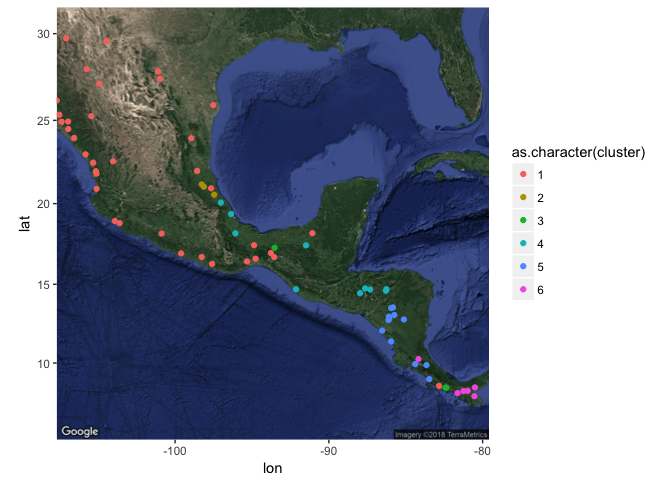
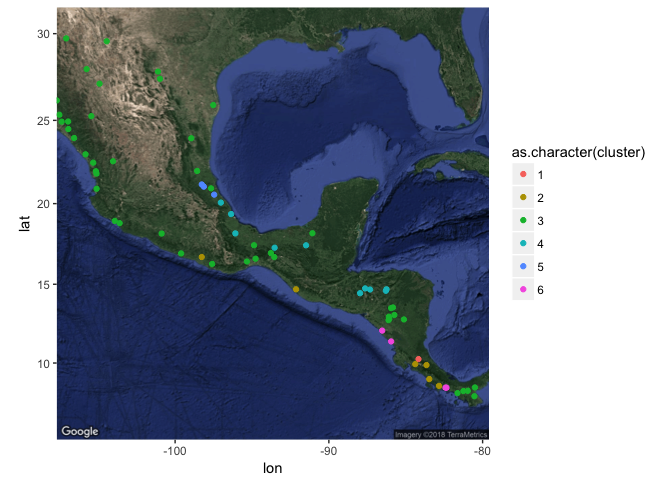
readme

diff --git a/clusters.md b/clusters.md
@@ -76,7 +76,7 @@ round(tapply(data$Mediana_de_cluster, data$rank_var,median),4)
 
 -   OPCIÓN 2: k-means usando los componentes de PCA.
 
-Primero, se deben calcular los PCA utilizando las anomalías en lugar de las observaciones. Como se tiene la climatología mensual para cada locación, el cálculo consiste en restar la climatología mensual a cada observación, según el mes correspondiente. Luego, se procede a hacer el PCA y por último agrupar las estaciones utilizando k-means.
+Primero, se deben calcular los PCA utilizando las anomalías en lugar de las observaciones. Como se tiene la climatología mensual para cada locación, el cálculo consiste en restar la climatología mensual a cada observación, según el mes correspondiente. Luego, se procede a hacer el PCA y por último agrupar las estaciones utilizando k-means de los primeros 10 componentes.
 
 ``` r
 clima2 <- as.matrix(clima[,-1]) %x% rep(1, 11)
@@ -93,20 +93,20 @@ fit <- kmeans(mydata, 6)
 aggregate(mydata,by=list(fit$cluster),FUN=mean)
 ```
 
-    ##   Group.1      Comp.1      Comp.2       Comp.3      Comp.4      Comp.5
-    ## 1       1 -0.03236753  0.02003948 -0.052705757 -0.01155176 -0.03723761
-    ## 2       2 -0.09226363  0.10238656 -0.249245515 -0.01029817  0.31521900
-    ## 3       3 -0.31486547  0.03354574  0.149833574 -0.16014539  0.08677194
-    ## 4       4 -0.07378654  0.05579737 -0.063748735  0.04383224  0.09371667
-    ## 5       5 -0.08035949  0.02079995  0.001412865  0.03520990  0.02090186
-    ## 6       6 -0.21944872 -0.14916599  0.071209607 -0.03162633 -0.09476993
-    ##        Comp.6       Comp.7      Comp.8       Comp.9     Comp.10
-    ## 1 -0.01263461  0.005131228 -0.03860683  0.006903447  0.01340550
-    ## 2 -0.23821138 -0.012421407  0.05428449 -0.162107082 -0.02525471
-    ## 3  0.06522142  0.265201443  0.11074939  0.125737832 -0.16811471
-    ## 4  0.15461689 -0.036529076  0.09287214  0.059983120  0.14240901
-    ## 5  0.10697671 -0.108308240 -0.06202052 -0.080938962 -0.11137158
-    ## 6 -0.09913274 -0.138107310  0.07959327 -0.102756546  0.09585316
+    ##   Group.1      Comp.1      Comp.2      Comp.3      Comp.4      Comp.5
+    ## 1       1 -0.23102533 -0.89974452 -0.25458406 -0.03555553  0.04093526
+    ## 2       2 -0.17505225  0.02100372 -0.01848551  0.08860101  0.03406538
+    ## 3       3 -0.04493411  0.02000804 -0.03369640 -0.01198930 -0.04525669
+    ## 4       4 -0.07236389  0.03996056 -0.02568390 -0.05189148  0.11409761
+    ## 5       5 -0.09226363  0.10238656 -0.24924551 -0.01029817  0.31521900
+    ## 6       6 -0.21909198  0.04687819  0.10998503  0.06257886  0.04684744
+    ##         Comp.6       Comp.7       Comp.8      Comp.9      Comp.10
+    ## 1  0.027942613 -0.117214555  0.047311531  0.07357872  0.004026195
+    ## 2  0.046912464  0.010931621 -0.251844773  0.01360782  0.065233715
+    ## 3 -0.001876355 -0.027558776 -0.004999674 -0.03049197  0.004020674
+    ## 4  0.159820495  0.003223046  0.107345441  0.02723663  0.128023216
+    ## 5 -0.238211378 -0.012421407  0.054284488 -0.16210708 -0.025254710
+    ## 6  0.015694867 -0.033484327  0.084285252  0.17957066 -0.310820339
 
 ``` r
 loca <- data.frame(loca, cluster=fit$cluster)
@@ -121,13 +121,13 @@ Descripción de los clusters:
 data <- as_tibble(cbind(loca,medianas))
 names(data) <- c("cod","lat","lon","area","rank_var","cluster2","Mediana_de_cluster")
 ## Area promedio de cada cluster:
-round(tapply(data$area, data$cluster2,mean),4)
+round(tapply(data$area,data$cluster2,mean),4)
 ```
 
     ##            1            2            3            4            5 
-    ## 2.523472e+04 1.454000e+03 4.013338e+08 8.170400e+03 2.446700e+03 
+    ## 7.300000e+01 1.844143e+03 2.104611e+04 8.076500e+03 1.454000e+03 
     ##            6 
-    ## 8.013333e+02
+    ## 3.010004e+08
 
 ``` r
 ## Medianan del Caudal de cada cluster:                                         
@@ -135,7 +135,7 @@ round(tapply(data$Mediana_de_cluster, data$cluster2,median),4)
 ```
 
     ##      1      2      3      4      5      6 
-    ## 0.1344 0.9366 8.9766 1.2963 0.7304 4.2840
+    ## 9.4685 4.6981 0.1775 1.2963 0.9366 4.6555
 
 -   OPCIÓN 3: Cluster para las series de tiempo.
 
@@ -177,4 +177,4 @@ round(tapply(data$Mediana_de_cluster, data$cluster2,median),4)
 ```
 
     ##      1      2      3      4      5      6 
-    ## 0.1344 0.9366 8.9766 1.2963 0.7304 4.2840
+    ## 9.4685 4.6981 0.1775 1.2963 0.9366 4.6555

diff --git a/Readme.md b/Readme.md
@@ -1,2 +1,4 @@
 # Hidalgo_CIGEFI
 Proyecto con el CIGEFI
+
+* [Primer análisis de clusters](https://github.com/malfaro2/Hidalgo_CIGEFI/blob/master/clusters.md)
